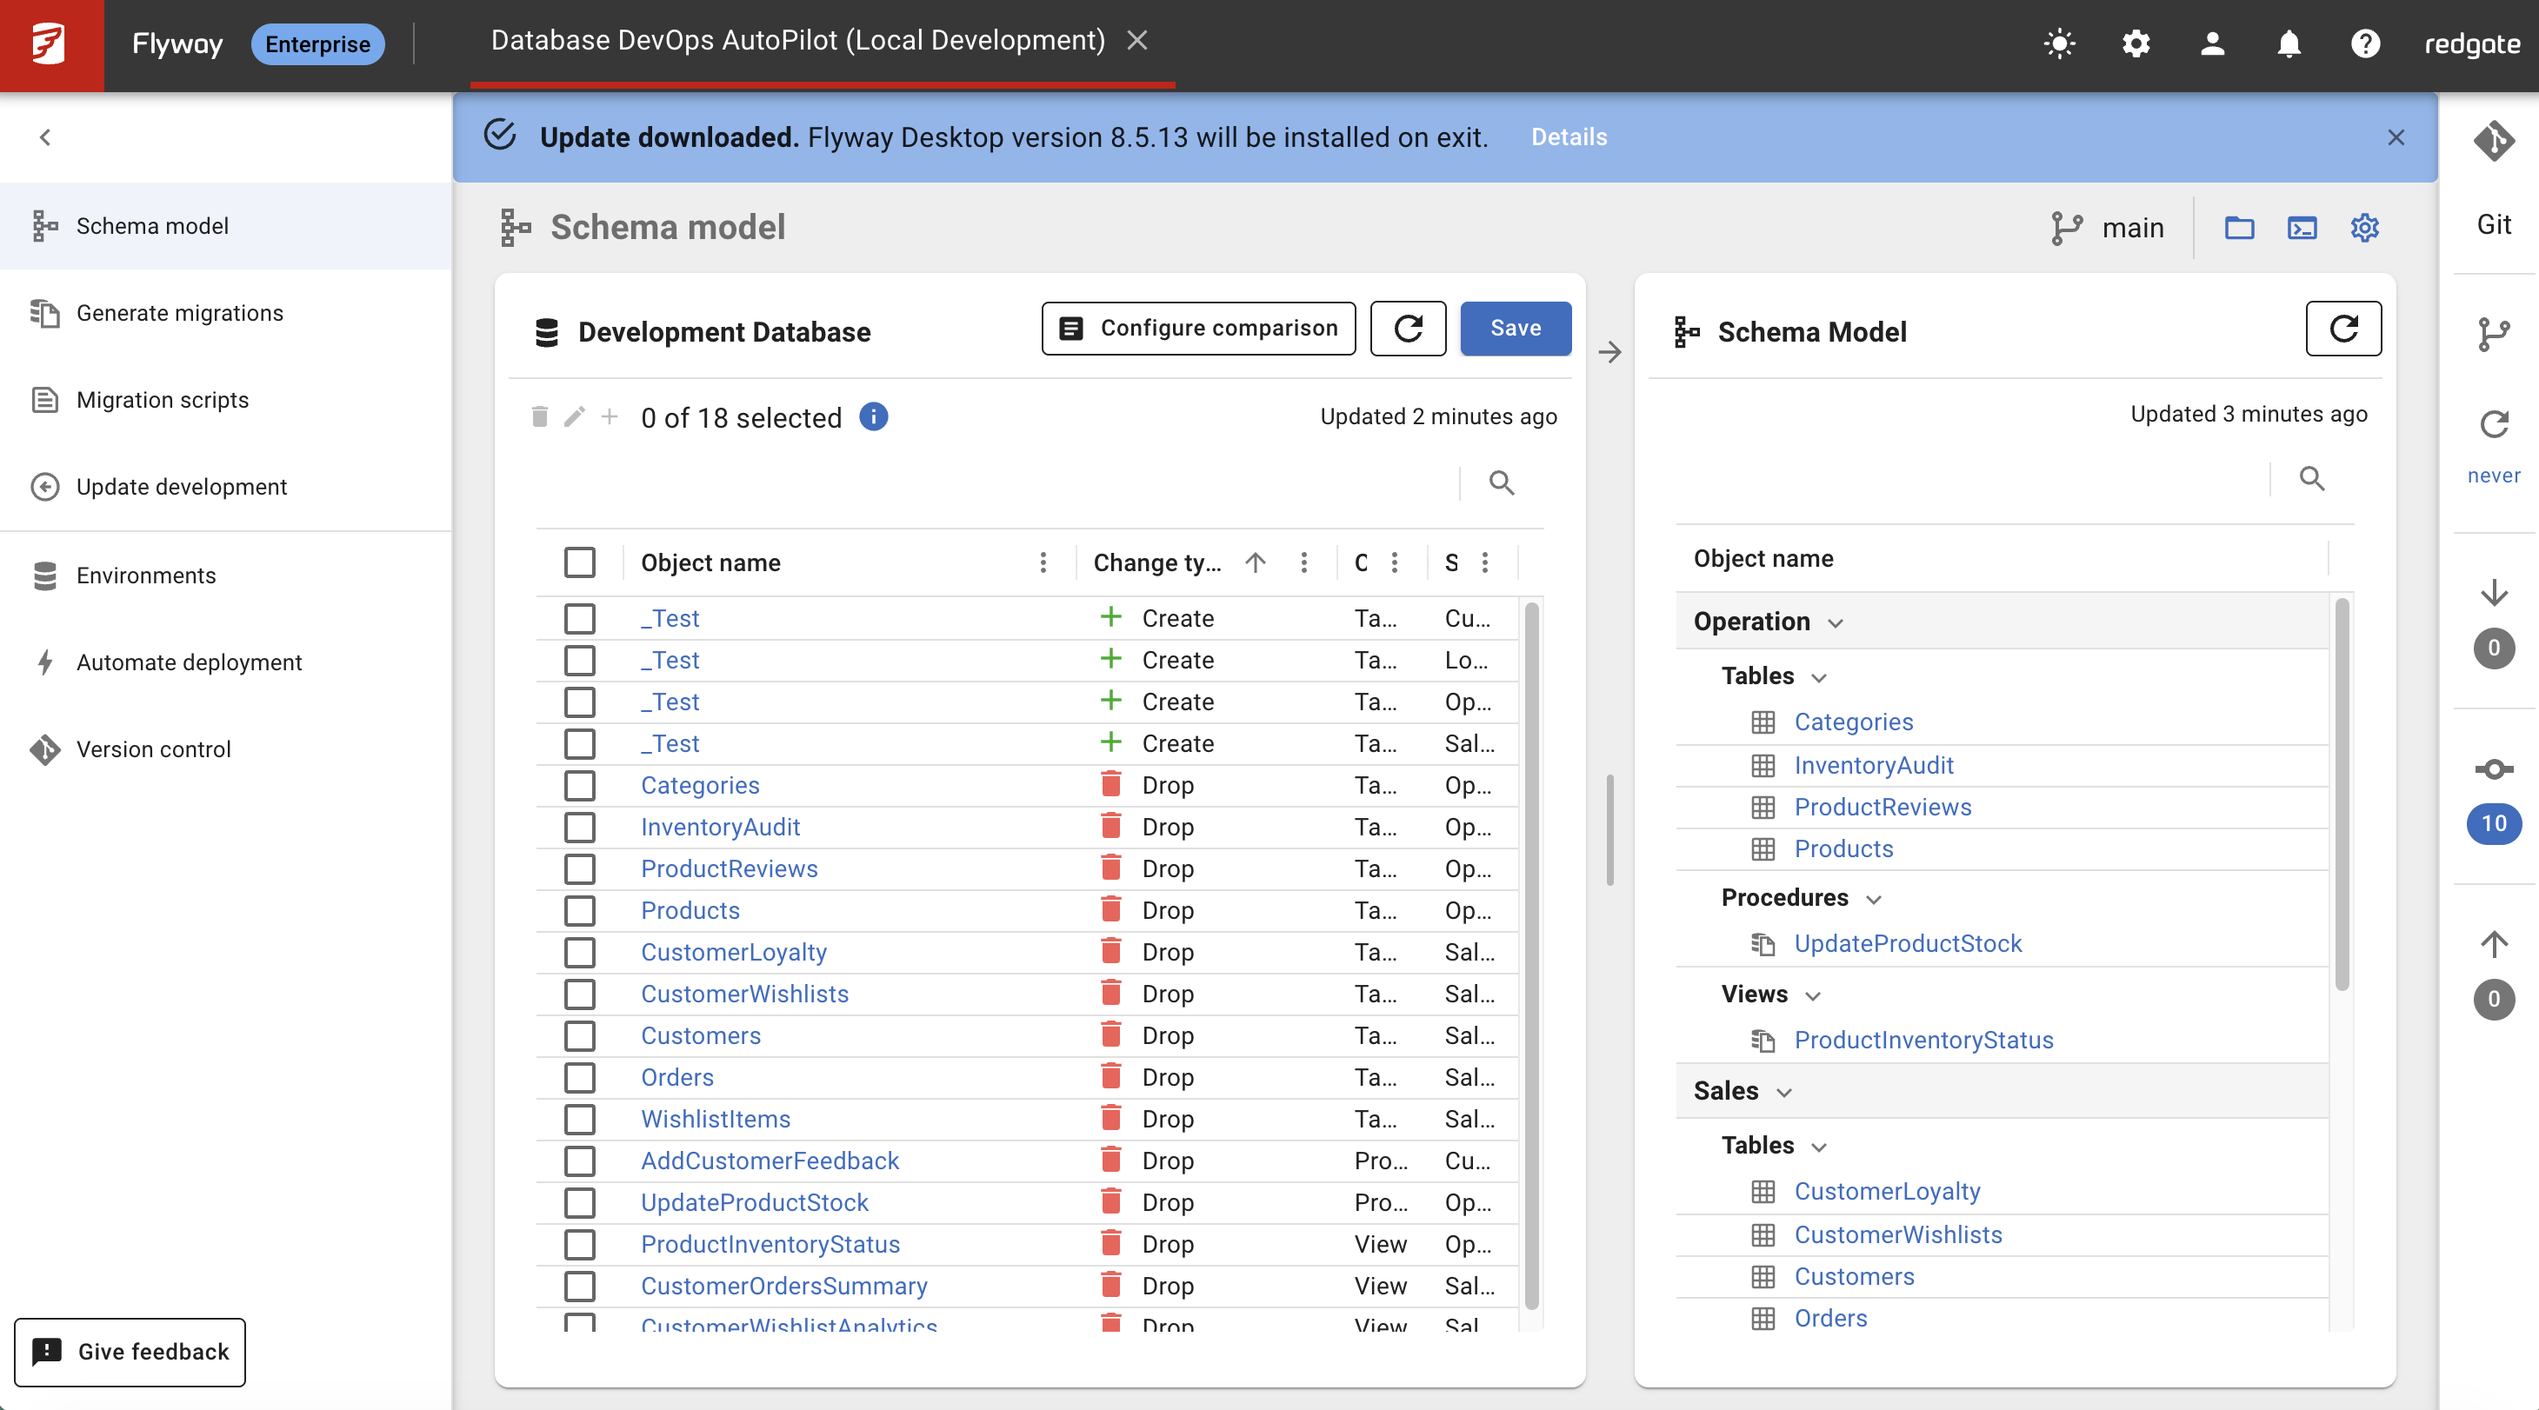
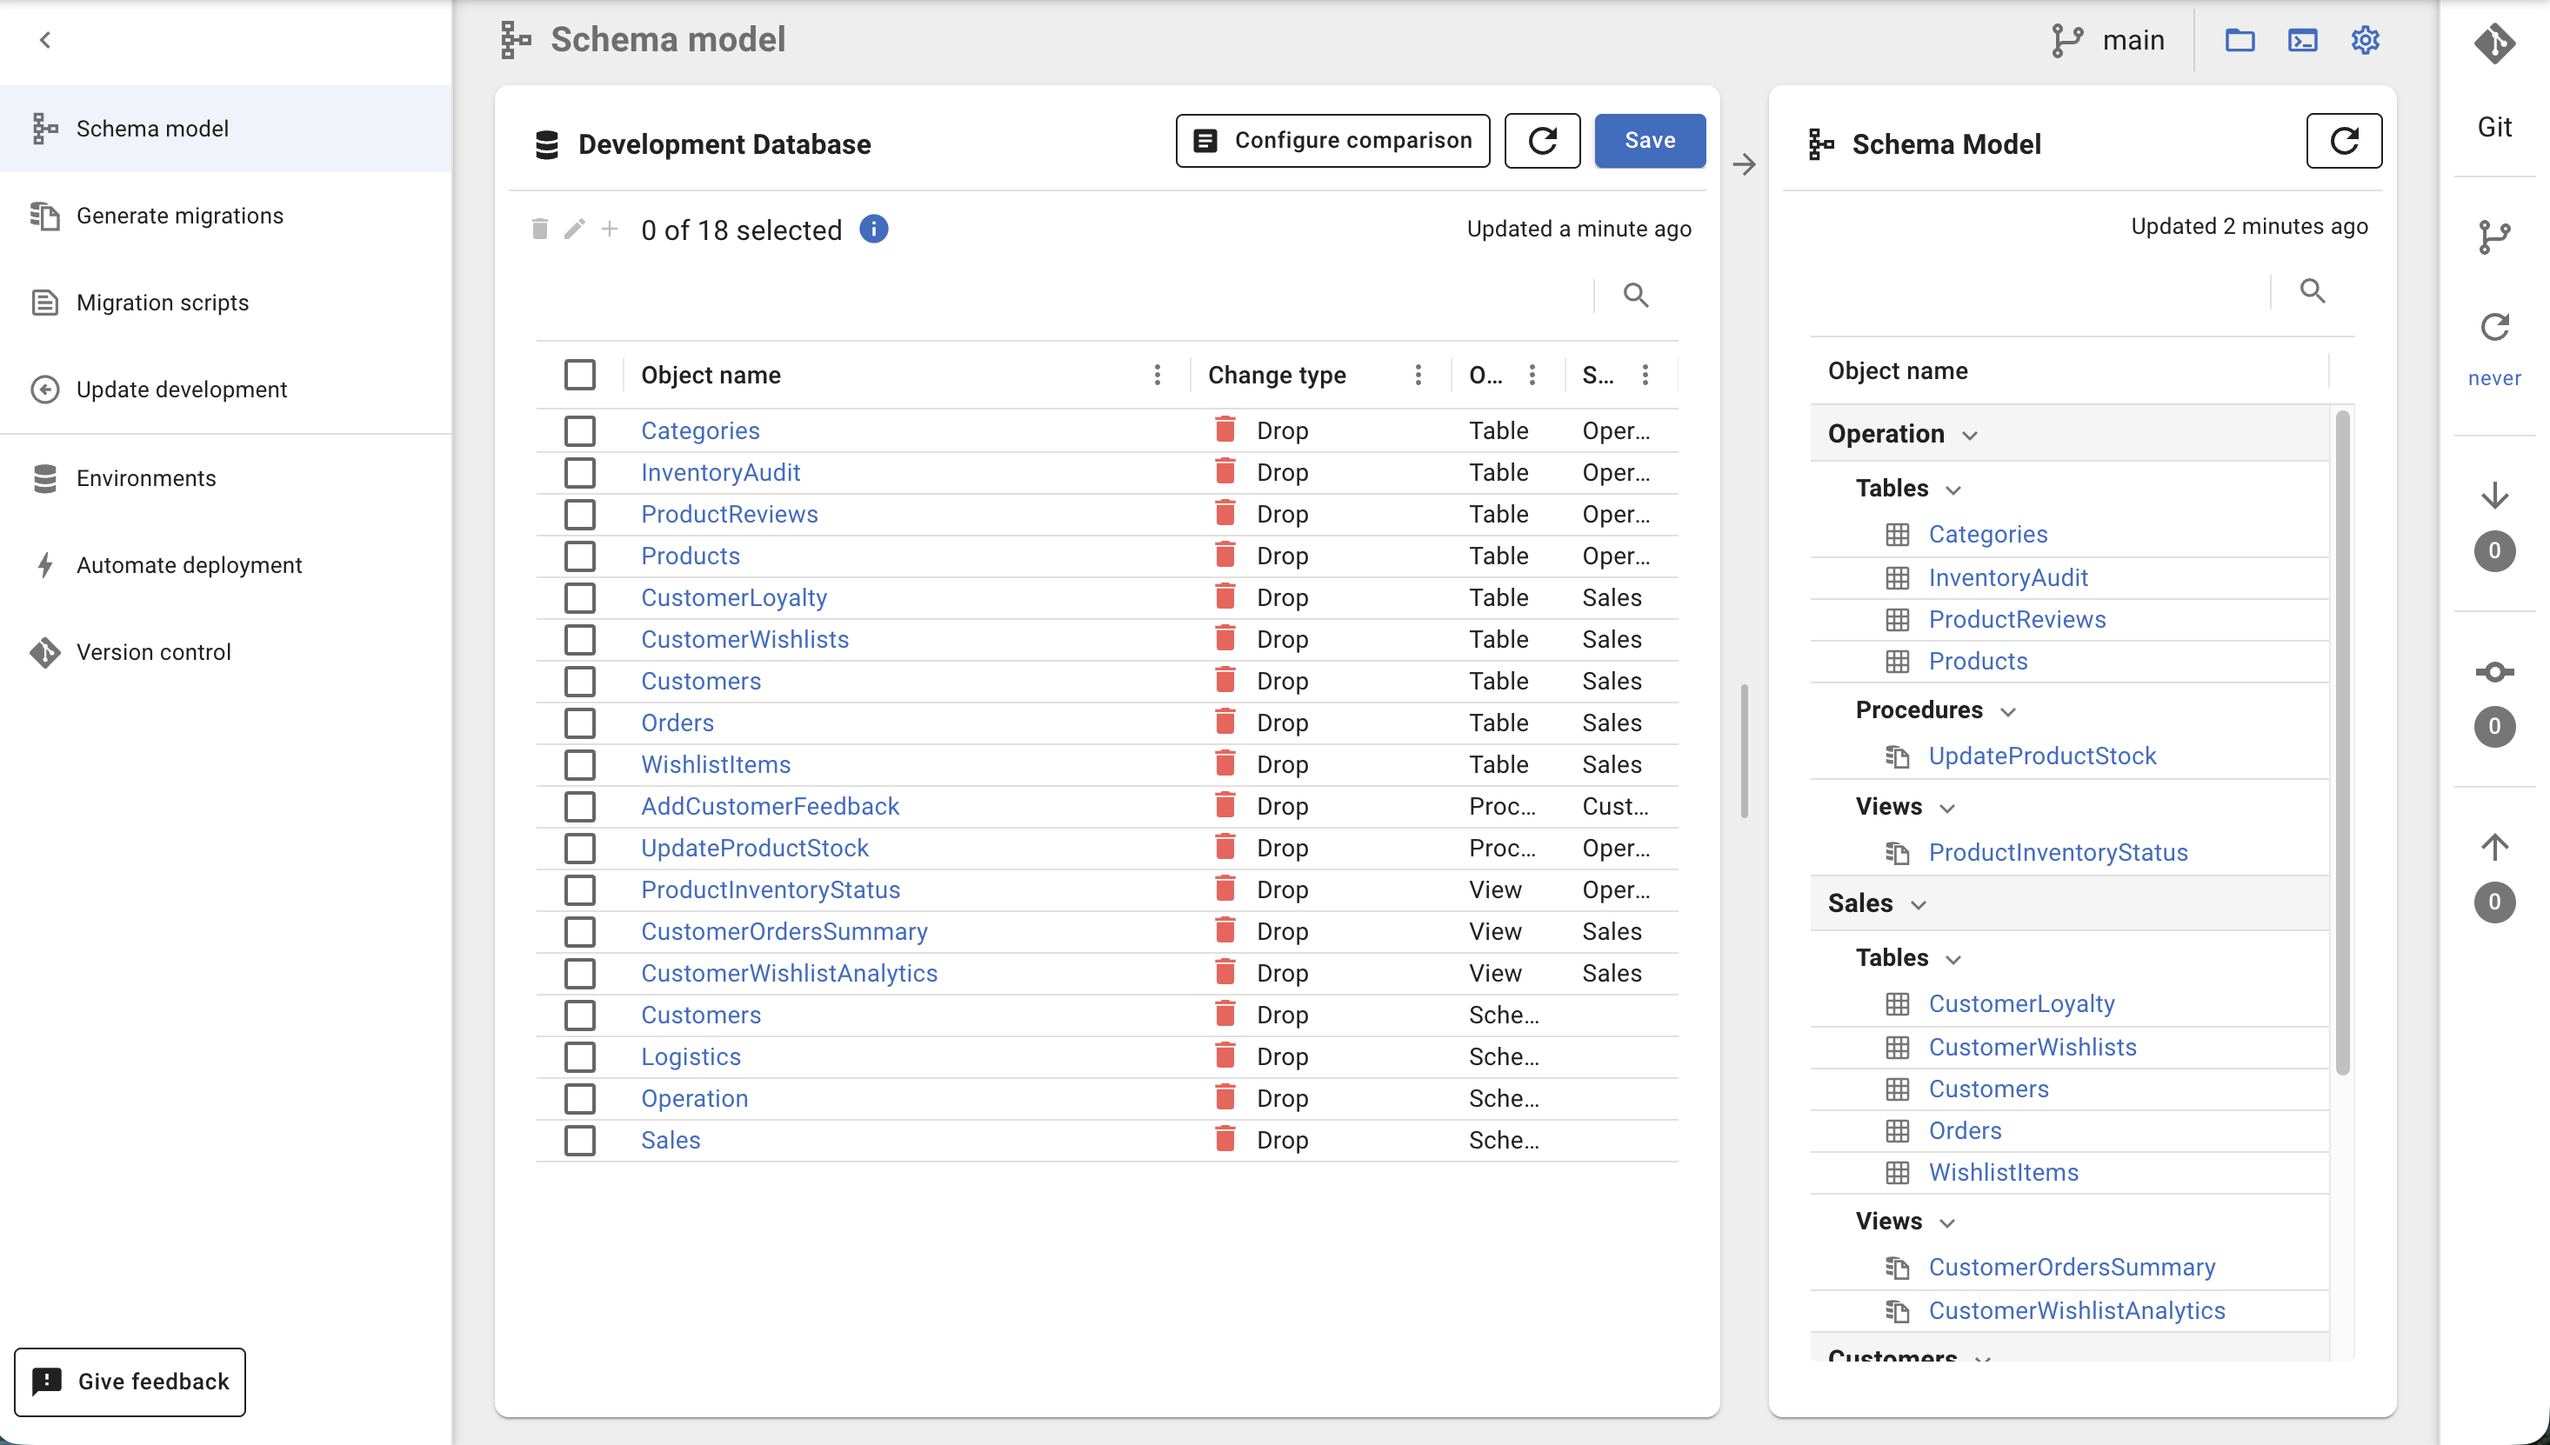
Update lab3-database-provisioning.md: refine schema view instructions and add explanation for schema model tab

diff --git a/training/flyway-autopilot/labs/lab3-database-provisioning.md b/training/flyway-autopilot/labs/lab3-database-provisioning.md
@@ -257,7 +257,7 @@ Shadow database is used for schema drift detection and migration validation.
 
 ### 3. Verify Schema Discovery
 
-1. With a connected environment selected, explore the **schema view**
+1. With a connected environment selected, explore the **Schema model** tab
 2. **At this point, the databases will be empty** - you'll only see the default `dbo` schema
 3. **After running the baseline migration**, you'll see the **four business schemas**:
 
@@ -265,6 +265,23 @@ Shadow database is used for schema drift detection and migration validation.
    - Logistics
    - Operation
    - Sales
+
+#### Understanding the Schema Model View
+
+When you open the **Schema model** tab in Flyway Desktop, you'll see a comparison view that shows:
+
+- **Object name**: Database objects (tables, views, procedures, schemas)
+- **Change type**: What would happen to each object:
+  - 🔴 **Drop** - Objects that exist in the schema model but not in the target database
+  - 🟢 **Create** - Objects that would be created in the target database
+  - 🟡 **Alter** - Objects that would be modified
+- **Object type**: Table, View, Procedure, Schema, etc.
+- **Schema**: Which business schema the object belongs to (Sales, Operation, etc.)
+
+> **Why do you see "Drop" everywhere initially?**
+> The schema model represents the expected final state of your database after all migrations. Since your database is currently empty (before running migrations), Flyway Desktop shows "Drop" for all the objects that should exist but don't yet. This is normal and expected!
+>
+> After running the baseline migration, these "Drop" indicators will disappear as the actual database matches the expected schema model.
 
 ![Desktop Environment View](../../../assets/images/labs/lab3-Desktop-looklike.png)
 
@@ -292,7 +309,7 @@ Now that databases are connected, deploy the baseline e-commerce platform:
 
 ### 2. Migration Results
 
-After successful migration execution, your database contains:
+After successful migration execution with the mssage **Flyway command completed**, your database contains:
 
 **E-Commerce Platform Components:**
 
